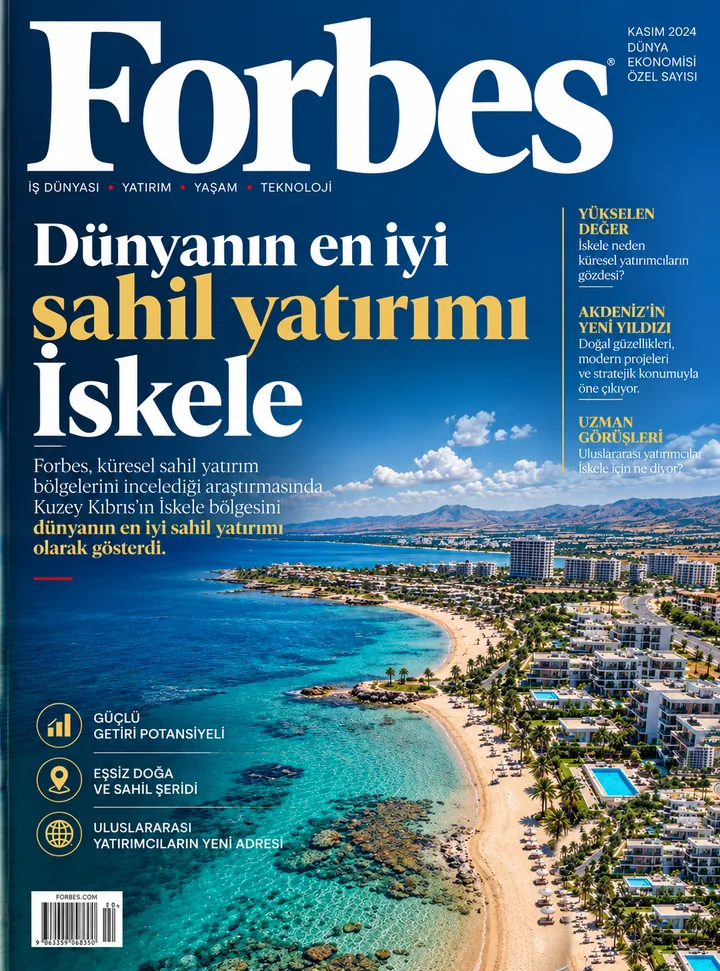
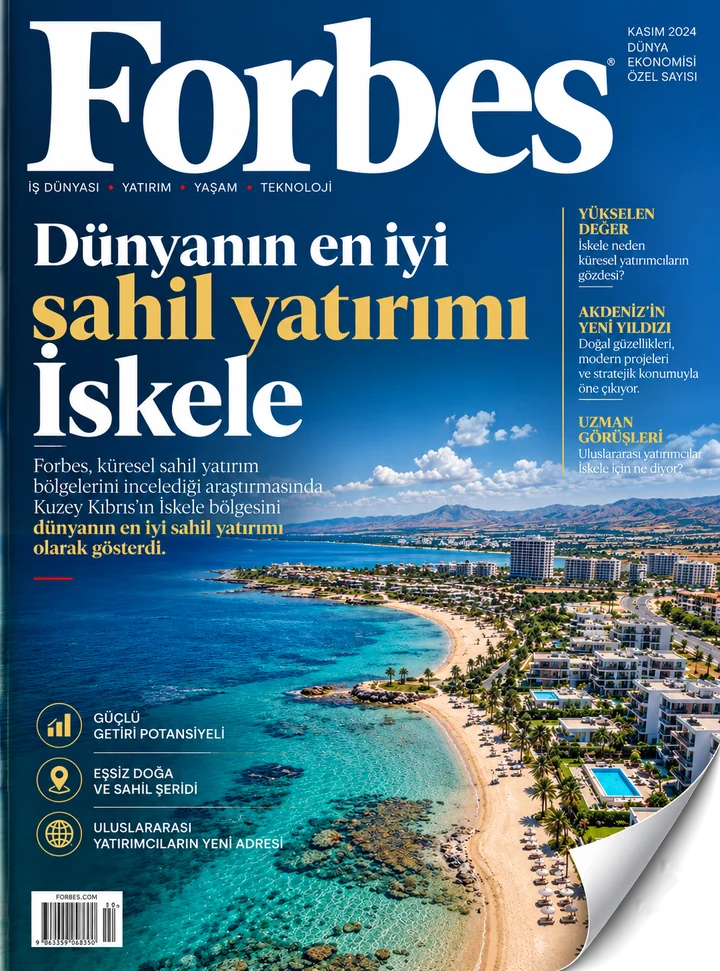
Forbes kapağı: orijinal görsel, yalnız köşe arka planı şeffaf
Claude-Session: https://claude.ai/code/session_01L7J9emsBgG6RTDKG46ZHWj

Changed region(s): [[0.7639, 0.7415, 1.0, 1.0]]

diff --git a/kibris.html b/kibris.html
@@ -690,20 +690,14 @@ body.lock{overflow:hidden}
 .v2 .principles{border:0;padding-top:96px}
 .fbs{position:relative;overflow:hidden;padding-block:clamp(64px,10vw,120px);background:radial-gradient(120% 80% at 18% 30%,rgba(28,78,160,.45),transparent 60%),radial-gradient(90% 70% at 90% 90%,rgba(233,162,59,.12),transparent 60%),#050A30;color:#EAF3F5}
 .fbs-in{display:grid;grid-template-columns:1fr;gap:44px;align-items:center}
-@property --c{syntax:"<length>";inherits:true;initial-value:0px}
-.fbs-cov{container-type:inline-size;position:relative;display:block;width:min(78vw,360px);margin-inline:auto;aspect-ratio:1080/1456;perspective:1400px;text-decoration:none}
-.fbs-card{--c:24cqw;position:absolute;inset:0;clip-path:polygon(0 0,100% 0,100% calc(100% - var(--c)),calc(100% - var(--c)) 100%,0 100%);animation:fbsPeel 3.4s ease-in-out infinite alternate;transform:rotateY(-12deg) rotateX(4deg) rotateZ(-1.5deg);transform-origin:60% 50%;transition:transform .9s cubic-bezier(.2,.8,.2,1),--c .7s cubic-bezier(.2,.8,.2,1);border-radius:4px 10px 10px 4px;box-shadow:-2px 0 0 rgba(255,255,255,.18) inset,0 40px 80px -24px rgba(0,0,0,.85),0 0 0 1px rgba(255,255,255,.06),0 0 90px -10px rgba(60,120,230,.45);overflow:hidden}
+.fbs-cov{position:relative;display:block;filter:drop-shadow(0 34px 40px rgba(0,0,0,.6)) drop-shadow(0 0 50px rgba(60,120,230,.35));width:min(78vw,360px);margin-inline:auto;aspect-ratio:1080/1456;perspective:1400px;text-decoration:none}
+.fbs-card{position:absolute;inset:0;-webkit-mask:url("assets/kibris/forbes-iskele-kapak-720.webp") 0 0/100% 100% no-repeat;mask:url("assets/kibris/forbes-iskele-kapak-720.webp") 0 0/100% 100% no-repeat;transform:rotateY(-12deg) rotateX(4deg) rotateZ(-1.5deg);transform-origin:60% 50%;transition:transform .9s cubic-bezier(.2,.8,.2,1);overflow:hidden}
 .fbs-card img{display:block;width:100%;height:100%;object-fit:cover}
 .fbs-card::before{content:"";position:absolute;inset:0 auto 0 0;width:14px;background:linear-gradient(90deg,rgba(0,0,0,.35),rgba(255,255,255,.12) 45%,transparent);z-index:1}
 .fbs-card::after{content:"";position:absolute;inset:-40%;background:linear-gradient(115deg,transparent 42%,rgba(255,255,255,.28) 50%,transparent 58%);transform:translateX(-60%);animation:fbsGl 6s ease-in-out 1.2s infinite;z-index:2;pointer-events:none}
 @keyframes fbsGl{0%,70%{transform:translateX(-60%)}100%{transform:translateX(60%)}}
-.fbs-cov:hover .fbs-card,.fbs-cov:focus-visible .fbs-card{transform:none;animation:none;--c:42cqw}
-@keyframes fbsPeel{from{--c:20cqw}to{--c:28cqw}}
-.fbs-flap{position:absolute;z-index:3;right:0;bottom:0;width:var(--c);height:var(--c);filter:drop-shadow(-6px -6px 10px rgba(0,0,0,.45))}
-.fbs-flap i{position:absolute;inset:0;clip-path:polygon(0 0,100% 0,0 100%);background:linear-gradient(135deg,#fbfcfe 0%,#e6eaf0 38%,#c3cad5 48%,#8f9aab 50%)}
-.fbs-badge{position:absolute;z-index:4;top:-20px;left:-20px;width:84px;height:84px;border-radius:50%;display:grid;place-content:center;text-align:center;background:radial-gradient(circle at 35% 30%,#FFF3C9,#E7B957 45%,#A8741B);color:#3A2606;box-shadow:0 12px 26px -8px rgba(0,0,0,.6),0 0 0 3px rgba(255,241,196,.35);transform:rotate(-10deg)}
-.fbs-badge b{font:400 2.1rem/1 var(--f-display)}
-.fbs-badge span{font:700 .56rem var(--f-mono);letter-spacing:.12em}
+.fbs-cov:hover .fbs-card,.fbs-cov:focus-visible .fbs-card{transform:none}
+
 .fbs-cov::after{content:"";position:absolute;left:8%;right:8%;bottom:-34px;height:30px;background:radial-gradient(closest-side,rgba(0,0,0,.6),transparent);filter:blur(4px)}
 .fbs-txt h2{color:#fff;margin:6px 0 0}
 .fbs-q{font:italic 400 clamp(1.25rem,3.4vw,1.6rem)/1.3 var(--f-display);color:var(--gold,#E2B04A);margin:22px 0 0;padding-inline-start:18px;border-inline-start:2px solid var(--red,#DC1C2E)}
@@ -714,7 +708,7 @@ body.lock{overflow:hidden}
 .fbs-links a i{font:700 .7rem var(--f-mono);letter-spacing:.1em;color:var(--gold,#E2B04A);font-style:normal}
 .fbs-m{font-size:.74rem;color:rgba(234,243,245,.5);margin-top:16px;line-height:1.5}
 @media(min-width:900px){.fbs-in{grid-template-columns:minmax(320px,420px) 1fr;gap:80px}.fbs-cov{width:100%}}
-@media (prefers-reduced-motion: reduce){.fbs-card{transform:none;animation:none}.fbs-card::after{animation:none;display:none}}
+@media (prefers-reduced-motion: reduce){.fbs-card{transform:none}.fbs-card::after{animation:none;display:none}}
 .v2 .pr-seal{width:84px;height:84px;filter:drop-shadow(0 10px 20px rgba(0,0,0,.5))}
 .v2 .pr-list{counter-reset:pr;scroll-padding-inline:20px;display:flex;gap:14px;overflow-x:auto;scroll-snap-type:x mandatory;margin-inline:-20px;padding:6px 20px 18px;scrollbar-width:none}
 .v2 .pr-list::-webkit-scrollbar{display:none}
@@ -1316,8 +1310,7 @@ html{overflow-x:hidden}
     <section class="fbs" id="forbes">
       <div class="wrap fbs-in">
         <a class="fbs-cov" id="fb-cov" href="https://www.forbes.com/sites/kathleenpeddicord/2021/02/05/5-best-beachfront-buys-for-2021/" target="_blank" rel="noopener" data-ev="forbes_kapak">
-          <span class="fbs-card"><span class="fbs-flap" aria-hidden="true"><i></i></span><img id="fb-img" src="assets/kibris/forbes-iskele-kapak-720.webp" srcset="assets/kibris/forbes-iskele-kapak-720.webp 720w, assets/kibris/forbes-iskele-kapak.webp 1080w" sizes="(min-width:900px) 420px, 78vw" width="1080" height="1456" alt="" loading="lazy" decoding="async"></span>
-          <span class="fbs-badge" aria-hidden="true"><b>#1</b><span>FORBES</span></span>
+          <span class="fbs-card"><img id="fb-img" src="assets/kibris/forbes-iskele-kapak-720.webp" srcset="assets/kibris/forbes-iskele-kapak-720.webp 720w, assets/kibris/forbes-iskele-kapak.webp 1080w" sizes="(min-width:900px) 420px, 78vw" width="1080" height="1456" alt="" loading="lazy" decoding="async"></span>
         </a>
         <div class="fbs-txt">
           <span class="eyebrow" id="fb-e"></span>
